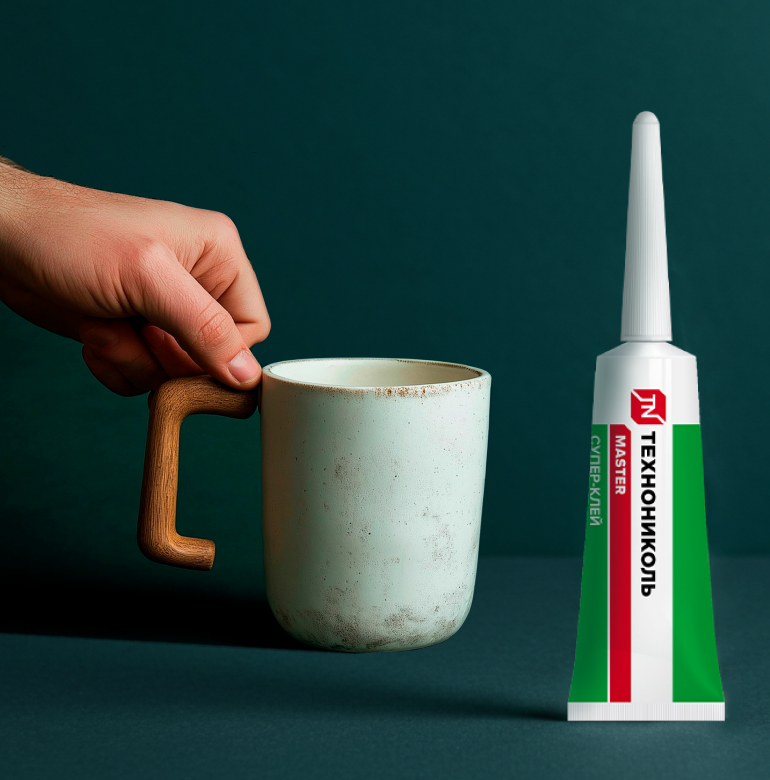
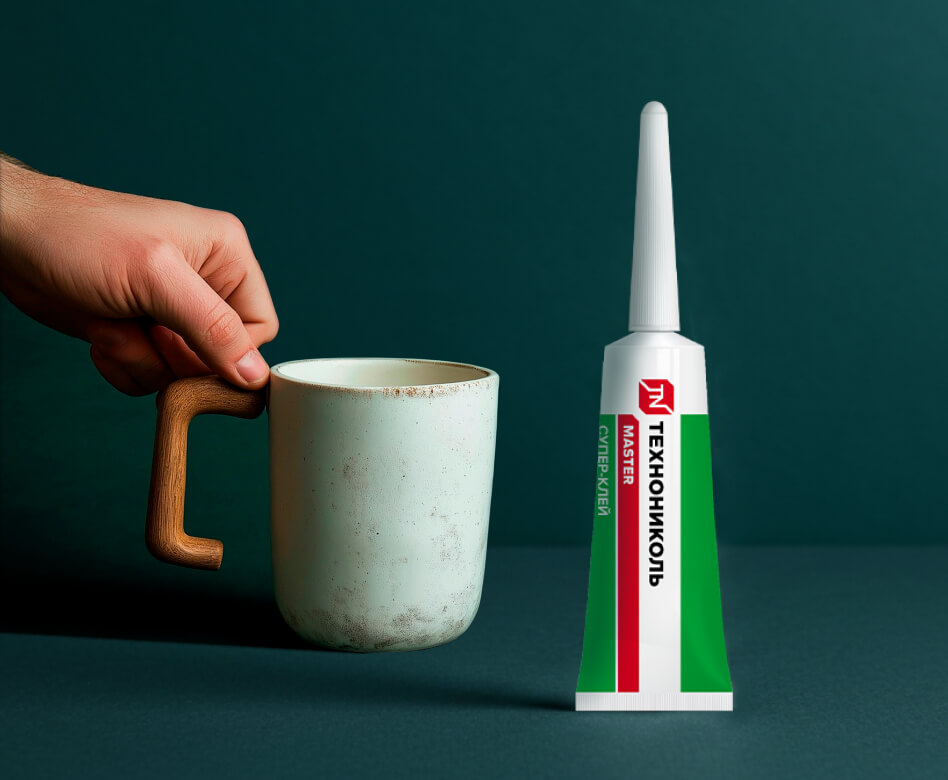
fix

diff --git a/styles/styles.css b/styles/styles.css
@@ -433,16 +433,8 @@ img {
   height: 100%;
   -o-object-fit: cover;
   object-fit: cover;
-  -o-object-position: top right;
-  object-position: top right;
-}
-
-@media only screen and (max-width: 1350px) {
-  .sg-product-card__bg img {
-
-    -o-object-position: bottom right;
-    object-position: bottom right;
-  }
+  -o-object-position: top center;
+  object-position: top center;
 }
 
 .sg-product-card__content {
@@ -637,28 +629,6 @@ img {
     grid-row: 1 / 4;
   }
 }
-
-/*@media only screen and (min-width: 1201px) {
-  .sg-product--first .sg-product-card--1 .sg-product-card__bg img {
-    width: 127.5%;
-    -o-object-position: center;
-    object-position: center;
-    transform: scale(1.145) translateY(-0.5%);
-  }
-}
-
-@media only screen and (min-width: 1201px) {
-  .sg-product--last .sg-product-card--1 .sg-product-card__bg img {
-    width: 110%;
-    transform: translateX(-7%);
-  }
-}
-
-@media only screen and (min-width: 1401px) {
-  .sg-product--last .sg-product-card--1 .sg-product-card__bg img {
-    transform: translateX(-1%);
-  }
-}*/
 
 .sg-product-card--2 {
   background: linear-gradient(203.91deg, rgba(23, 52, 53, 0.5) 15.36%, rgba(67, 152, 155, 0.5) 88.13%);

diff --git a/index.html b/index.html
@@ -156,7 +156,7 @@
 				<div class="sg-product__grid" data-aos="fade-up" data-aos-duration="800" data-aos-delay="200">
 					<div class="sg-product-card sg-product-card--1">
 						<div class="sg-product-card__bg">
-							<img src="img/product_img_1.jpg">
+							<img style="object-position: top center;" src="img/product_img_1.jpg">
 						</div>
 						<div class="sg-product-card__content">
 							<div class="sg-product-card__header">
